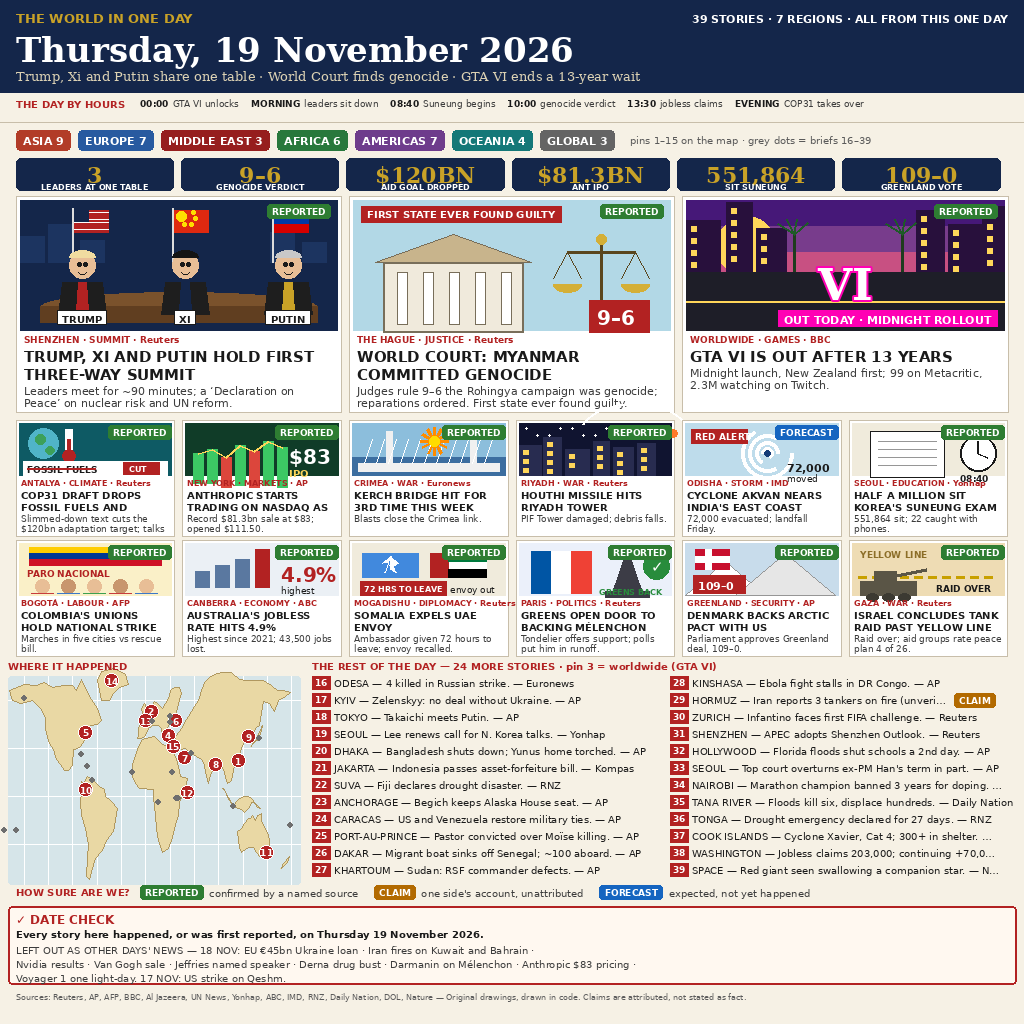
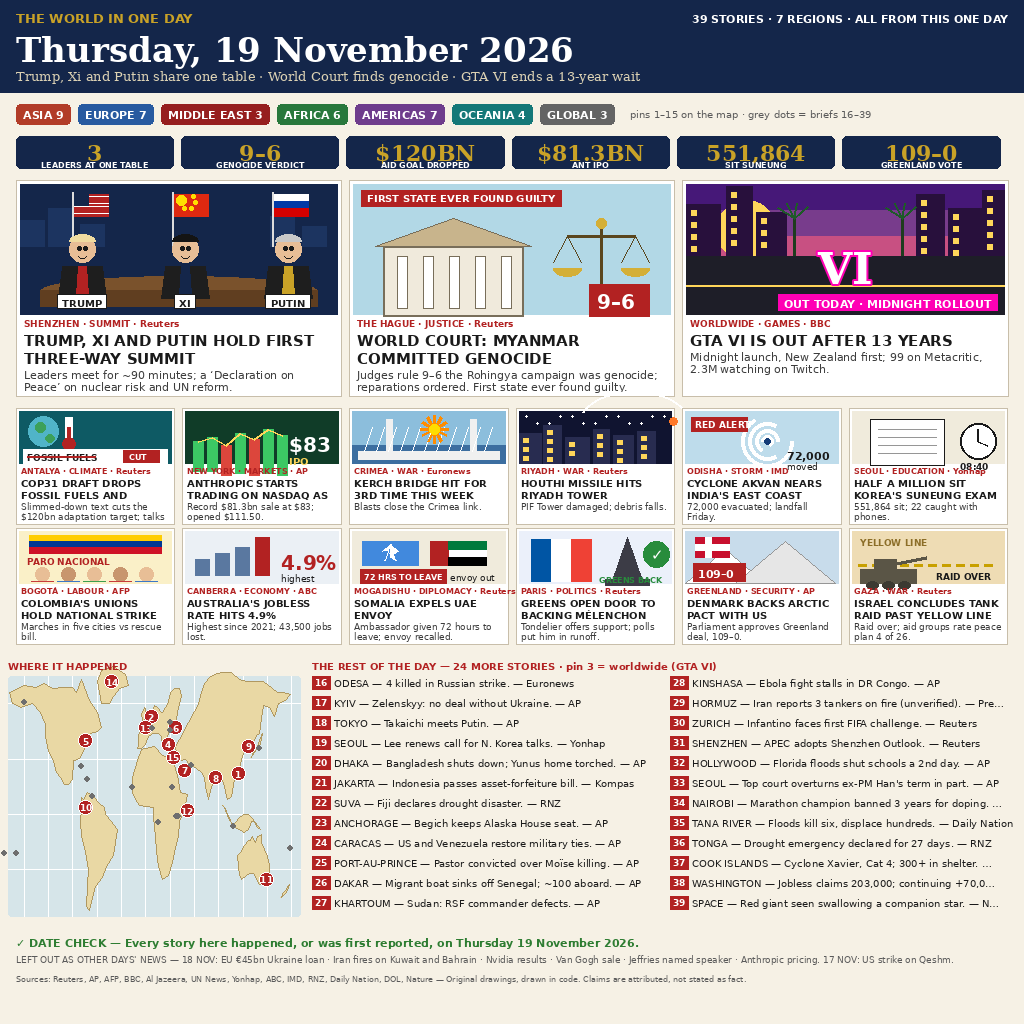
news19 v5: strip meta-chrome per rank-1 pattern — no timeline, no per-item chips, no legend, one-line DATE CHECK

diff --git a/draw.py b/draw.py
@@ -1,9 +1,10 @@
 #!/usr/bin/env python3
-"""news-image-20261119 v4 — picture-paper front page, drawn entirely in code.
+"""news-image-20261119 v5 — picture-paper front page, drawn entirely in code.
 
-40 stories, 3 drawn heroes + 12 drawn mids, number strip, region chips,
-day-by-hours timeline, REPORTED/CLAIM/FORECAST tags, numbered-pin map,
-DATE CHECK box. Output: entry.png (1024x1024, <=1 MiB), deterministic.
+39 stories, 3 drawn heroes + 12 drawn mids, number strip, region chips,
+numbered-pin map, one-line DATE CHECK. No timeline, no per-item status
+chips, no legend (rank-1 pattern: fewer chrome bands, one-line header and
+audit). Output: entry.png (1024x1024, <=1 MiB), deterministic.
 """
 import hashlib
 import os
@@ -52,21 +53,6 @@ def wrap(draw, text, font, max_w):
 def rrect(d, box, radius, fill=None, outline=None, width=1):
     d.rounded_rectangle(box, radius=radius, fill=fill, outline=outline, width=width)
 
-
-def tag(d, x, y, label, color):
-    """Status chip: REPORTED (green) / CLAIM (amber) / FORECAST (blue)."""
-    f = SANS_B(9)
-    w = int(d.textlength(label, font=f)) + 10
-    rrect(d, [x, y, x + w, y + 14], 3, fill=color)
-    d.text((x + 5, y + 2), label, font=f, fill=(255, 255, 255))
-    return w
-
-
-GREEN = (46, 125, 50)
-AMBER = (178, 106, 0)
-BLUE = (21, 101, 192)
-
-TAG_COLORS = {"REPORTED": GREEN, "CLAIM": AMBER, "FORECAST": BLUE}
 
 
 def chip(d, x, y, label, color, font):
@@ -626,7 +612,6 @@ def hero_card(d, box, hero):
     d.rectangle((x0, y0, x1, y1), fill=(255, 255, 255), outline=(200, 190, 170), width=1)
     scene_box = (x0 + 4, y0 + 4, x1 - 4, y0 + 134)
     hero["scene"](d, scene_box)
-    tag(d, x1 - 74, y0 + 8, hero["tag"], TAG_COLORS[hero["tag"]])
     d.text((x0 + 8, y0 + 138), hero["kicker"], font=SANS_B(9), fill=RED)
     lines = wrap(d, hero["headline"], SANS_B(15), x1 - x0 - 16)
     y = y0 + 152
@@ -644,7 +629,6 @@ def mid_card(d, box, mid):
     d.rectangle((x0, y0, x1, y1), fill=(255, 255, 255), outline=(200, 190, 170), width=1)
     scene_box = (x0 + 3, y0 + 3, x1 - 3, y0 + 55)
     mid["scene"](d, scene_box)
-    tag(d, x1 - 66, y0 + 5, mid["tag"], TAG_COLORS[mid["tag"]])
     d.text((x0 + 5, y0 + 58), mid["kicker"], font=SANS_B(8), fill=RED)
     lines = wrap(d, mid["headline"], SANS_B(10), x1 - x0 - 10)
     y = y0 + 69
@@ -673,21 +657,6 @@ def main():
     d.text((16, 68), "Trump, Xi and Putin share one table · World Court finds genocide · GTA VI ends a 13-year wait",
            font=SERIF(13), fill=(220, 210, 180))
 
-    # ---- timeline strip
-    d.text((16, 98), "THE DAY BY HOURS", font=SANS_B(10), fill=RED)
-    tl = [("00:00", "GTA VI unlocks"),
-          ("MORNING", "leaders sit down"),
-          ("08:40", "Suneung begins"),
-          ("10:00", "genocide verdict"),
-          ("13:30", "jobless claims"),
-          ("EVENING", "COP31 takes over")]
-    x = 140
-    for t, ev in tl:
-        d.text((x, 98), t, font=SANS_B(9), fill=INK)
-        x += d.textlength(t, font=SANS_B(9)) + 4
-        d.text((x, 98), ev, font=SANS(9), fill=(60, 60, 60))
-        x += d.textlength(ev, font=SANS(9)) + 12
-    d.line([(0, 122), (W, 122)], fill=(200, 190, 170), width=1)
 
     # ---- region chips
     regions = [("ASIA 9", (178, 60, 40)), ("EUROPE 7", (40, 90, 160)),
@@ -696,8 +665,8 @@ def main():
                ("GLOBAL 3", (100, 100, 100))]
     x = 16
     for label, color in regions:
-        x += chip(d, x, 130, label, color, SANS_B(11)) + 8
-    d.text((x + 8, 134), "pins 1–15 on the map · grey dots = briefs 16–39",
+        x += chip(d, x, 104, label, color, SANS_B(11)) + 8
+    d.text((x + 8, 108), "pins 1–15 on the map · grey dots = briefs 16–39",
            font=SANS(10), fill=(90, 90, 90))
 
     # ---- number strip (colored chips)
@@ -707,19 +676,19 @@ def main():
     cw = (W - 32) / 6
     for i, (n, lab) in enumerate(nums):
         cx = 16 + i * cw
-        rrect(d, [cx, 158, cx + cw - 8, 190], 5, fill=NAVY)
+        rrect(d, [cx, 136, cx + cw - 8, 168], 5, fill=NAVY)
         f = SERIF_B(22)
         tw = d.textlength(n, font=f)
-        d.text((cx + (cw - 8 - tw) / 2, 162), n, font=f, fill=GOLD)
+        d.text((cx + (cw - 8 - tw) / 2, 140), n, font=f, fill=GOLD)
         lf = SANS_B(8)
         lw = d.textlength(lab, font=lf)
-        d.text((cx + (cw - 8 - lw) / 2, 182), lab, font=lf,
+        d.text((cx + (cw - 8 - lw) / 2, 160), lab, font=lf,
                fill=(255, 255, 255))
 
     # ---- heroes
     hw = (W - 32 - 16) / 3
     for i, hero in enumerate(HEROES):
-        hero_card(d, (16 + i * (hw + 8), 196, 16 + (i + 1) * hw + i * 8, 412), hero)
+        hero_card(d, (16 + i * (hw + 8), 180, 16 + (i + 1) * hw + i * 8, 396), hero)
 
     # ---- mids, two rows of six
     mw = (W - 32 - 5 * 8) / 6
@@ -727,11 +696,11 @@ def main():
         for col in range(6):
             mid = MIDS[row * 6 + col]
             x0 = 16 + col * (mw + 8)
-            y0 = 420 + row * 120
+            y0 = 408 + row * 120
             mid_card(d, (x0, y0, x0 + mw, y0 + 116), mid)
 
     # ---- map + briefs
-    map_box = (8, 676, 300, 884)
+    map_box = (8, 676, 300, 916)
     draw_map(d, map_box)
     d.text((8, 660), "WHERE IT HAPPENED", font=SANS_B(10), fill=RED)
     pins = [(1, 114, 22), (2, 7, 53), (4, 28, 38), (5, -74, 40), (6, 37, 47),
@@ -755,49 +724,26 @@ def main():
         col = i // 12
         row = i % 12
         bx = 312 + col * (col_w + 12)
-        by = 676 + row * 17
+        by = 676 + row * 20
         f = SANS_B(9)
         d.rectangle([bx, by, bx + 18, by + 13], fill=RED)
         d.text((bx + 9 - d.textlength(str(num), font=f) / 2, by + 1), str(num),
                font=f, fill=(255, 255, 255))
         line = f"{place} — {text} — {src}"
-        maxw = col_w - 24 - (68 if tg != "REPORTED" else 0)
+        maxw = col_w - 24
         while d.textlength(line, font=SANS(10)) > maxw and len(line) > 4:
             line = line[:-5] + "…"
         d.text((bx + 22, by + 1), line, font=SANS(10), fill=INK)
-        if tg != "REPORTED":
-            tag(d, bx + col_w - 62, by, tg, TAG_COLORS[tg])
 
-    # ---- legend
-    d.text((16, 886), "HOW SURE ARE WE?", font=SANS_B(10), fill=RED)
-    lx = 140
-    for label, color in [("REPORTED", GREEN), ("CLAIM", AMBER), ("FORECAST", BLUE)]:
-        lx += tag(d, lx, 885, label, color) + 6
-        desc = {"REPORTED": "confirmed by a named source",
-                "CLAIM": "one side's account, unattributed",
-                "FORECAST": "expected, not yet happened"}[label]
-        d.text((lx, 887), desc, font=SANS(10), fill=(60, 60, 60))
-        lx += d.textlength(desc, font=SANS(10)) + 16
-
-    # ---- DATE CHECK
-    rrect(d, [8, 906, W - 8, 984], 4, fill=(255, 248, 240),
-          outline=RED, width=2)
-    d.text((16, 912), "✓ DATE CHECK", font=SANS_B(12), fill=RED)
-    d.text((16, 928),
-           "Every story here happened, or was first reported, on Thursday 19 November 2026.",
-           font=SANS_B(10), fill=INK)
-    d.text((16, 944),
-           "LEFT OUT AS OTHER DAYS' NEWS — 18 NOV: EU €45bn Ukraine loan · Iran fires on Kuwait and Bahrain ·",
-           font=SANS(10), fill=(60, 60, 60))
-    d.text((16, 958),
-           "Nvidia results · Van Gogh sale · Jeffries named speaker · Derna drug bust · Darmanin on Mélenchon · Anthropic $83 pricing ·",
-           font=SANS(10), fill=(60, 60, 60))
-    d.text((16, 972),
-           "Voyager 1 one light-day. 17 NOV: US strike on Qeshm.",
-           font=SANS(10), fill=(60, 60, 60))
+    # ---- DATE CHECK (one line + one exclusions line, rank-1 style)
+    d.text((16, 936), "✓ DATE CHECK — Every story here happened, or was first reported, on Thursday 19 November 2026.",
+           font=SANS_B(11), fill=(46, 125, 50))
+    d.text((16, 954),
+           "LEFT OUT AS OTHER DAYS' NEWS — 18 NOV: EU €45bn Ukraine loan · Iran fires on Kuwait and Bahrain · Nvidia results · Van Gogh sale · Jeffries named speaker · Anthropic pricing. 17 NOV: US strike on Qeshm.",
+           font=SANS(9), fill=(90, 90, 90))
 
     # ---- footer
-    d.text((16, 992),
+    d.text((16, 974),
            "Sources: Reuters, AP, AFP, BBC, Al Jazeera, UN News, Yonhap, ABC, IMD, RNZ, Daily Nation, DOL, Nature — Original drawings, drawn in code. Claims are attributed, not stated as fact.",
            font=SANS(8), fill=(90, 90, 90))
 
